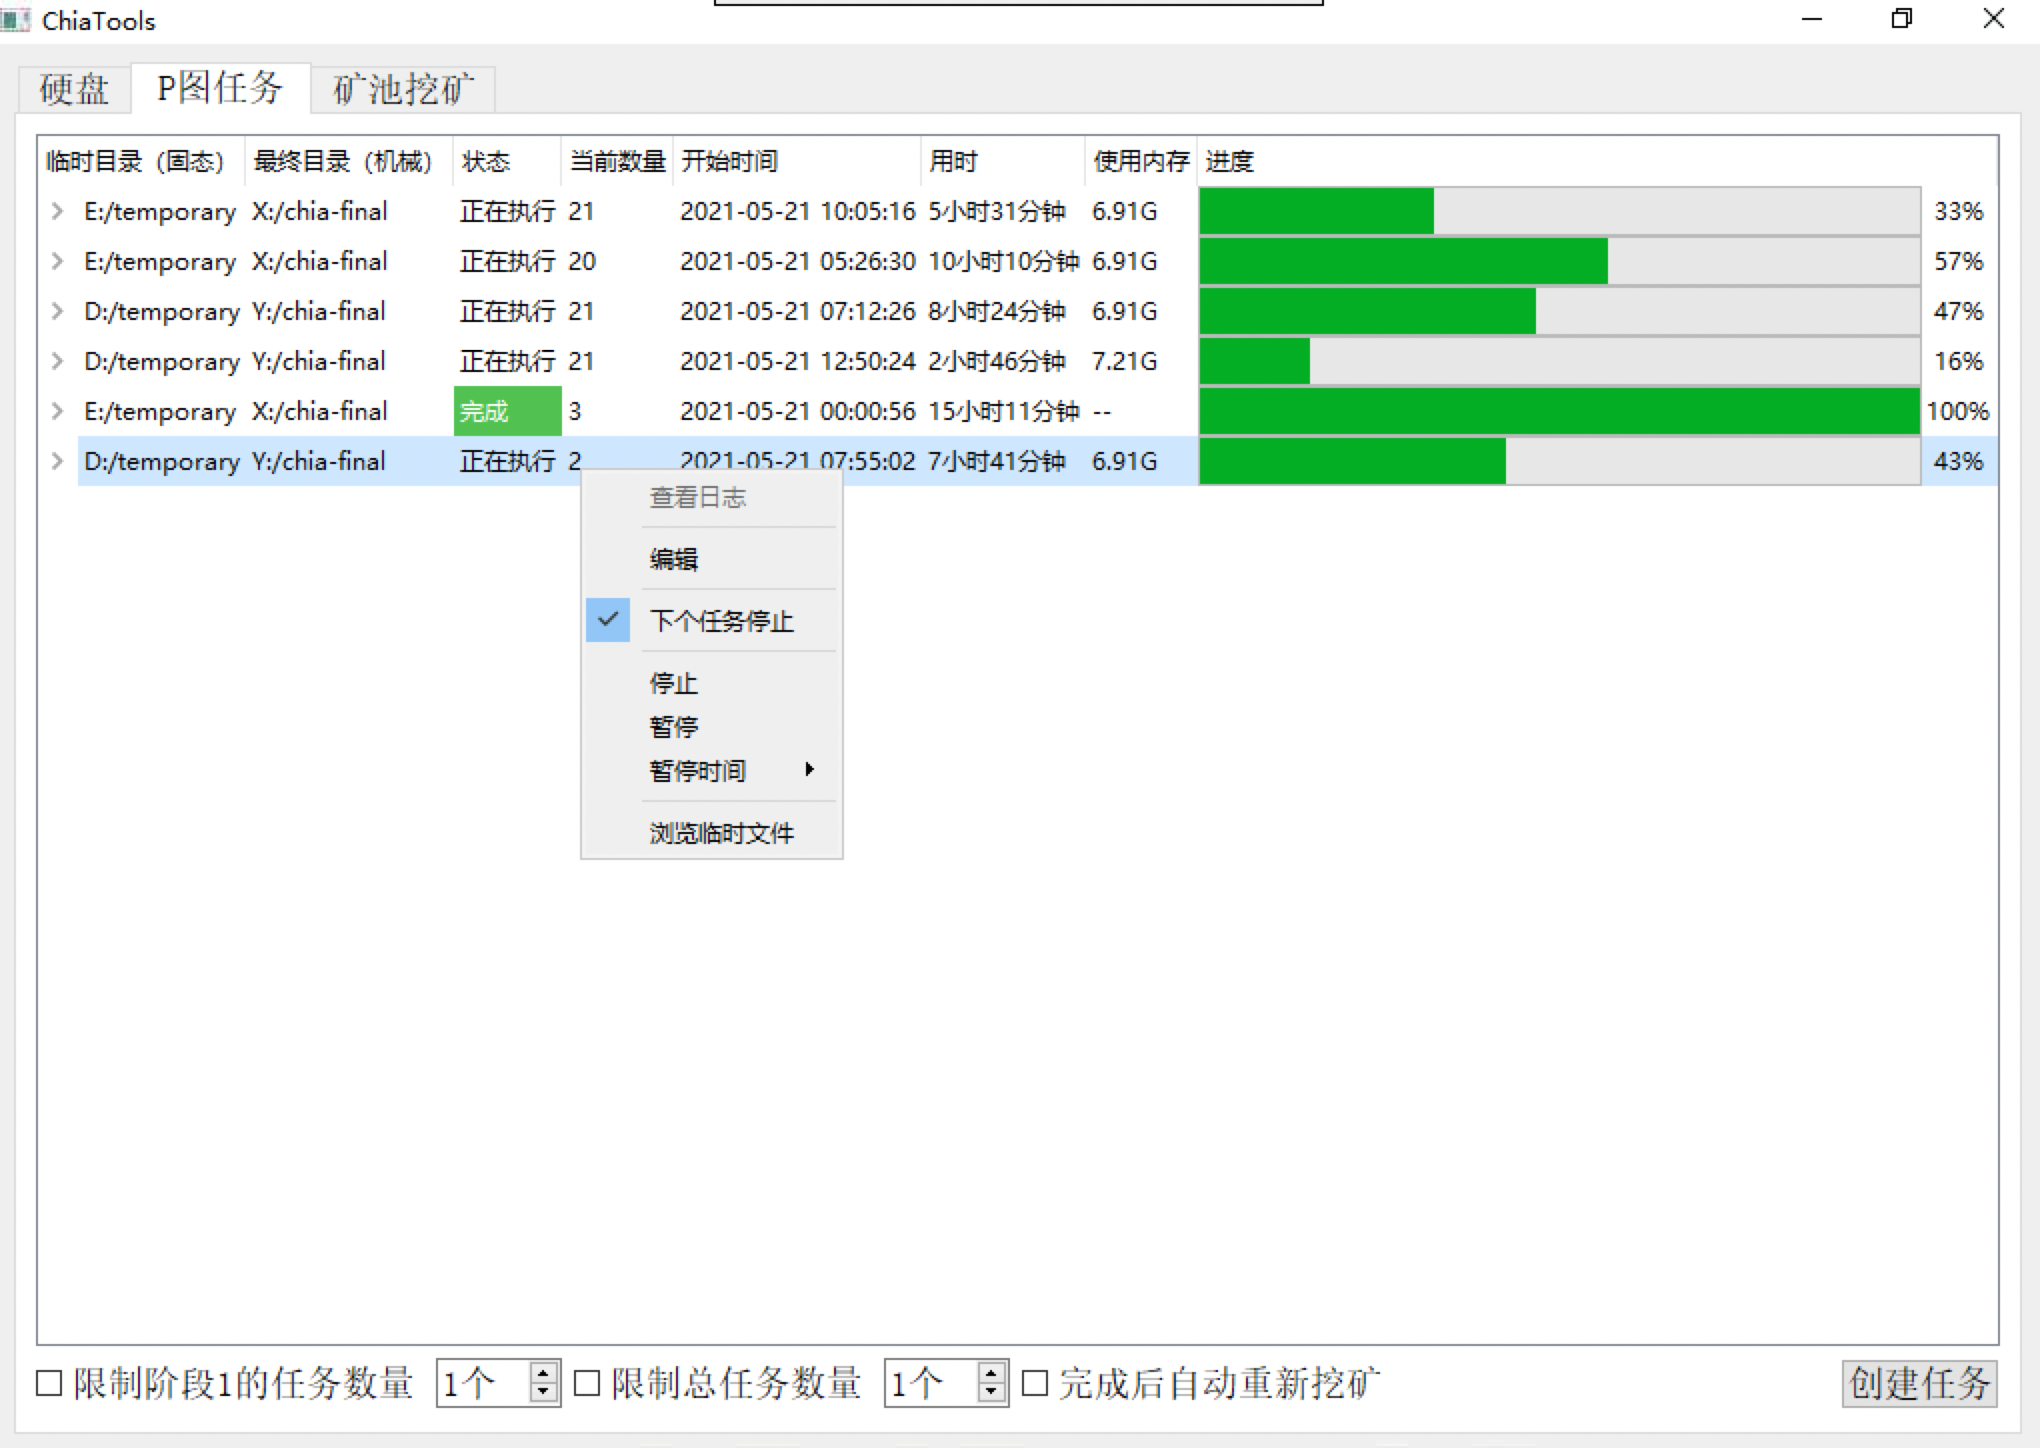
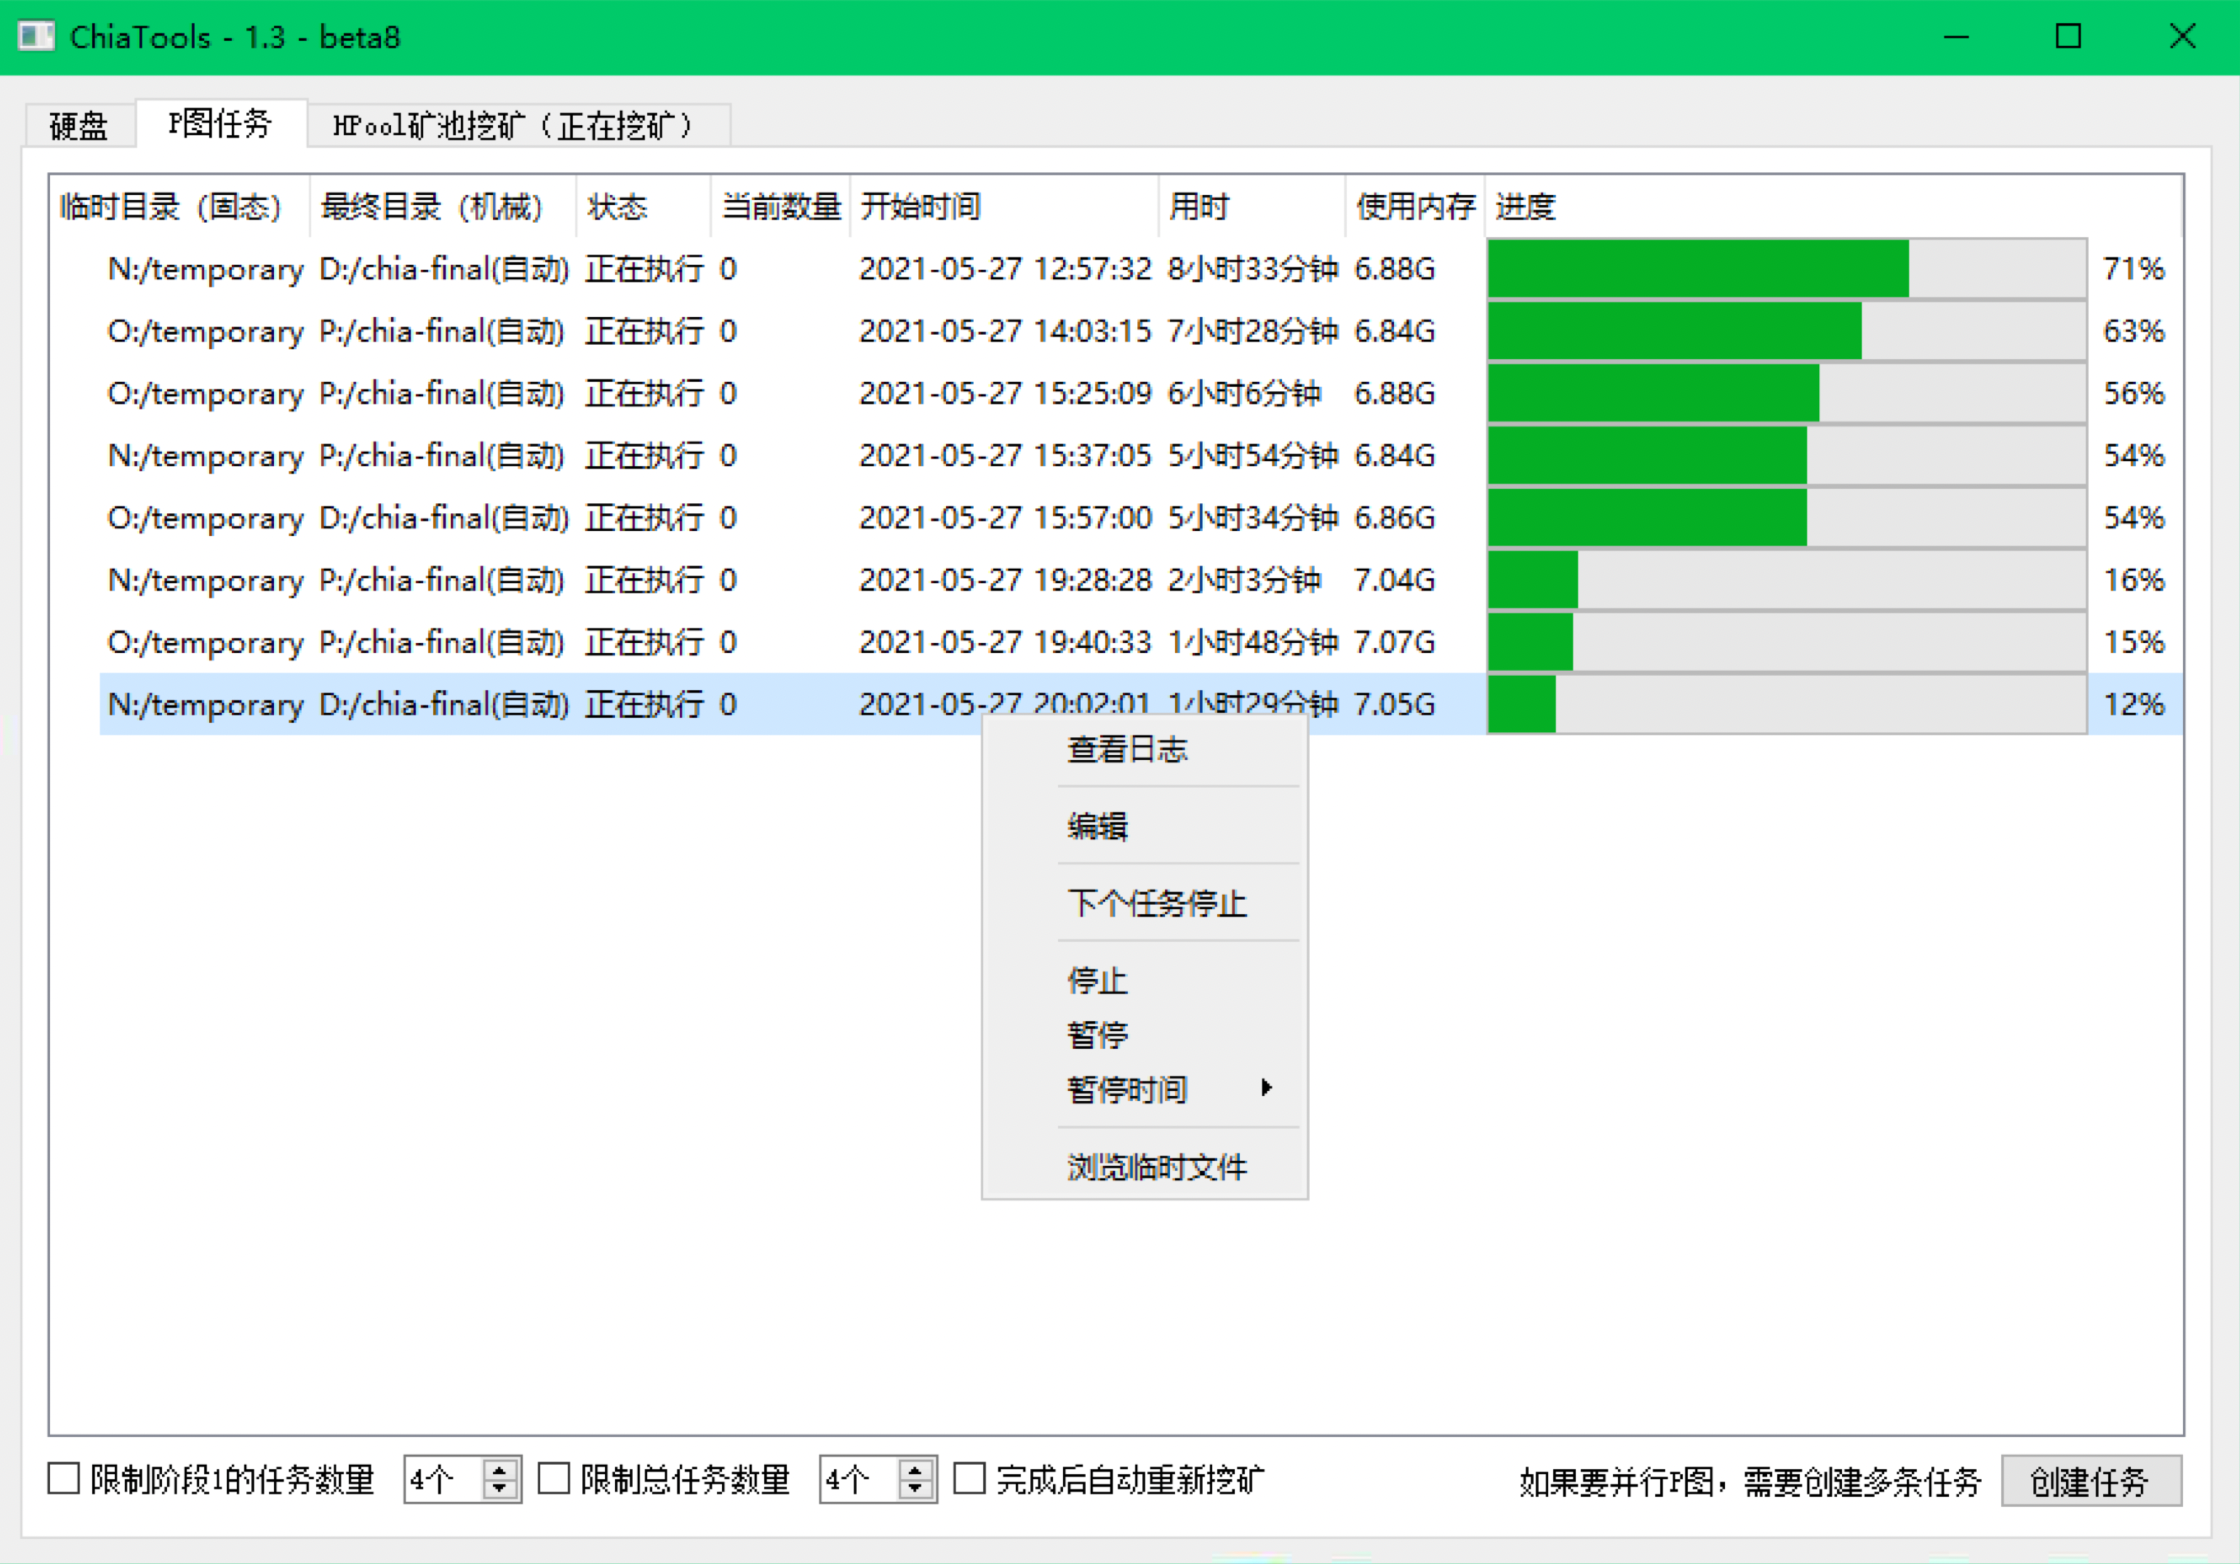
制作使用教程

diff --git a/README.md b/README.md
@@ -1,25 +1,129 @@
-# ChiaTools
-Chia官方钱包P图功能的替代品，实现了比官方钱包更简单更方便更实用的P图功能。同时集成了hpool矿池挖矿功能。
+# 介绍
+ChiaTools是Chia官方钱包P图功能的替代品，提供了比官方钱包更简单更方便更实用的P图功能。同时集成了hpool矿池挖矿功能。
+
+ChiaTools是免费的开源软件，同时欢迎各位开发者朋友们一起贡献代码，加入QQ群 926625265 来一起交流和完善ChiaTools。
 
 近期发现有人在利用该软件进行着非法牟利。再次提醒，该软件为免费软件，所有类似的收费软件都为非法。
-如果在使用过程中有疑问，请加QQ群一起交流: 926625265
 
-#### 特色功能
-1. 可多任务同时P图
-2. P图进度精细到1%
-3. 可暂停P图任务，可任意控制多P图任务的进度
-4. 使用HPool官方挖矿程序挖矿，程序崩溃或异常时会自动重启
-5. 不索要助记词
-6. 任务失败后可以删除临时文件
-7. 当任务执行到最后一步（拷贝文件）前，自动执行下一个任务
-8. 可以修改任务，在下一个任务执行时生效
-
-![image](https://gitee.com/devteamcn/chia-tools/raw/master/images/folder01.png)
-![image](https://gitee.com/devteamcn/chia-tools/raw/master/images/plot01.png)
-![image](https://gitee.com/devteamcn/chia-tools/raw/master/images/mine01.png)
-
-#### 下载地址
+##下载地址
 https://gitee.com/devteamcn/chia-tools/releases
 
-#### 使用方法
-解压后进入目录，找到ChiaTools.exe，双击运行
+下载解压后，进入目录找到ChiaTools.exe，双击启动。
+
+# 功能亮点
+- 可以高效率的并发P图任务
+- P图任务可以自动选择最终目录，无需担心磁盘会满导致任务失败
+- P图进度精细到1%
+- P图过程可随时暂停和继续，自定义暂停时间
+- 任务可以延迟启动，任务之间可以错开高峰，只需一次配置即可全自动P图
+- 集成了HPool挖矿程序，当挖矿程序异常或崩溃时会自动重启程序
+- 不索要助记词，当安装了Chia钱包软件并创建了钱包，会自动获取公钥
+- 失败的任务在删除任务时自动删除临时文件
+- 当P图最后一步拷贝文件前，自动开始下一个任务，无需担心机械硬盘阻塞影响P图速度
+- P图执行过程中可随时修改配置，配置完后下个任务生效
+- P图命令行可自由选择，选择内置P图程序，或官方钱包命令行
+## 软件界面
+### 硬盘
+![image](https://gitee.com/devteamcn/chia-tools/raw/master/images/folder01.png)
+### P图任务
+![image](https://gitee.com/devteamcn/chia-tools/raw/master/images/plot01.png)
+### 创建P图任务
+![image](https://gitee.com/devteamcn/chia-tools/raw/master/images/create01.png)
+### 矿池挖矿
+![image](https://gitee.com/devteamcn/chia-tools/raw/master/images/mine01.png)
+
+# 使用说明
+## 配置硬盘
+首先要配置硬盘，在硬盘界面里，将所有的固态硬盘和机械硬盘分别添加到对应的列表中。
+## 创建P图任务
+![image](https://gitee.com/devteamcn/chia-tools/raw/master/images/create02.png)
+
+### P图程序
+P图命令行分为两种，一种是官方钱包chia.exe，一种是内置的ProofOfSpace.exe
+#### 官方钱包chia.exe
+官方钱包chia.exe是只有安装了Chia钱包软件才会有，所在位置是
+C:\Users\Administrator\AppData\Local\chia-blockchain\app-1.1.4\resources\app.asar.unpacked\daemon\chia.exe
+#### ProofOfSpace.exe
+ProofOfSpace.exe是chia官方提供的开源代码编译出来的P图程序，和钱包chia.exe本质上是使用的相同代码，但是命令行参数不同。当在没有安装钱包软件的电脑上可以使用该程序。
+
+这两个程序P图速度在理论上没有区别，如果你有发现了区别，请联系我们一起交流。
+### 临时目录
+可选择在硬盘界面中配置的固态硬盘
+### 最终目录
+默认选择自动。在选择自动时，软件会在开始任务前自动选择空闲的硬盘，当没有可用的空闲硬盘时，任务会停止。
+
+也可以指定最终目录，当指定的硬盘空间不够时，任务会停止
+### fpk和ppk
+如果你安装了Chia钱包软件并且创建了钱包，软件会自动获取fpk和ppk。如果没有安装钱包，请使用第三方工具（如：HPool提供的签名软件等）来生成。
+### Plot大小
+默认选择k32，注意每种所需的临时文件大小是不同的。
+### 最大内存
+默认内存是4608MiB，可自定义大小。注意要合理分配内存，记得预留内存给操作系统，以免造成P图失败。
+### 线程数
+默认线程数是2，可根据CPU线程数自由配置。
+### 桶数
+默认桶数是128，范围是16-128。
+### 开启位域
+默认是开启。位域是利用了CPU的一种特性，可大大提高P图效率。如果你的CPU不支持这种特性，需要禁止位域。
+### 指定数量
+如果不指定数量，会不停的P图直到硬盘满。
+
+如果指定了数量，会只P指定的数量的图。注意这些任务数量是按顺序执行，不是并发执行。如果要并发执行，需要创建多条任务。
+### 延迟时间
+如果不设置延迟时间，任务会立即开始。如果指定了延迟时间，会等待这个时间后自动开始。
+
+如果你想让同一个固态硬盘下的多个任务错开高峰，可以自定义延迟时间来运行任务。
+## P图任务管理
+右键一个正在执行的P图任务，会弹出下面菜单。
+![image](https://gitee.com/devteamcn/chia-tools/raw/master/images/menu01.png)
+### 查看日志
+查看日志可以查看任务输出的实时日志内容。
+### 编辑
+![image](https://gitee.com/devteamcn/chia-tools/raw/master/images/edit01.png)
+编辑任务可以在任务运行过程中修改配置，修改之后会在下个任务执行时生效。
+### 停止
+会强制停止正在运行的任务，注意停止后无法恢复。
+### 暂停 / 继续
+在P图任务执行过程中可随时暂停任务，暂停的过程中会停止硬盘的读写，CPU占用为0。点击继续会恢复运行。
+
+可以指定暂停时间30分钟、1小时、2小时、3小时、4小时。到时间后会自动继续任务。
+### 浏览临时文件
+点击后会跳转到该任务的临时文件所在的目录。
+## P图任务辅助功能
+在P图任务界面的下方，会有任务数量的限制。
+![image](https://gitee.com/devteamcn/chia-tools/raw/master/images/plot02.png)
+### 限制阶段1的任务数量
+当创建了多个P图任务，此时只会有指定数量的任务处于阶段1执行，其它任务会处于排队中的状态。
+### 限制总任务数量
+当创建了多个P图任务，此时只会有指定数量的任务执行，其它任务会处于排队中的状态。
+### 完成后自动重新挖矿
+勾选之后，当一个P图任务完成，会生成新的Plot文件。此时如果你正在挖矿，会自动重新启动挖矿程序，重启后的挖矿程序会立即扫描所有plot文件。如果没有挖矿，
+则不会有任何效果。
+
+如果不勾选，正在运行的挖矿程序会每间隔10分钟扫盘一次。
+##使用HPool矿池挖矿
+目前只支持HPool挖矿，后续如果有别的的矿池出现，会考虑集成进来。
+
+首先将HPool的API Key输入，填写矿机名称，点击开始挖矿按钮，就可以挖矿了。
+
+挖矿所使用的目录，就是硬盘界面中配置的机械硬盘目录。如果你不想指定的目录用来挖矿，只需要将左边的勾去掉即可。
+
+### 自动开始挖矿
+在挖矿界面左下方，有个自动开始挖矿的选项。勾选之后，软件在启动之后就会自动开始挖矿。
+
+### 挖矿进程守护
+挖矿程序有时会崩溃，或显示扫盘超时等问题。这时会自动重启挖矿程序以防止离线。
+
+# 创建任务实战
+## 创建并发任务，一直运行直到P满所有硬盘
+![image](https://gitee.com/devteamcn/chia-tools/raw/master/images/create03.png)
+最终目录选择自动，不指定数量。
+
+使用以上配置，创建多条任务，即可实现多任务并发。
+## 在指定硬盘中P指定数量的图
+![image](https://gitee.com/devteamcn/chia-tools/raw/master/images/create04.png)
+最终目录中选择目标硬盘。
+
+如果要单任务按顺序P图，输入指定的数量即可。
+
+如果要并发，指定1个数量，以相同的配置创建多个任务。
